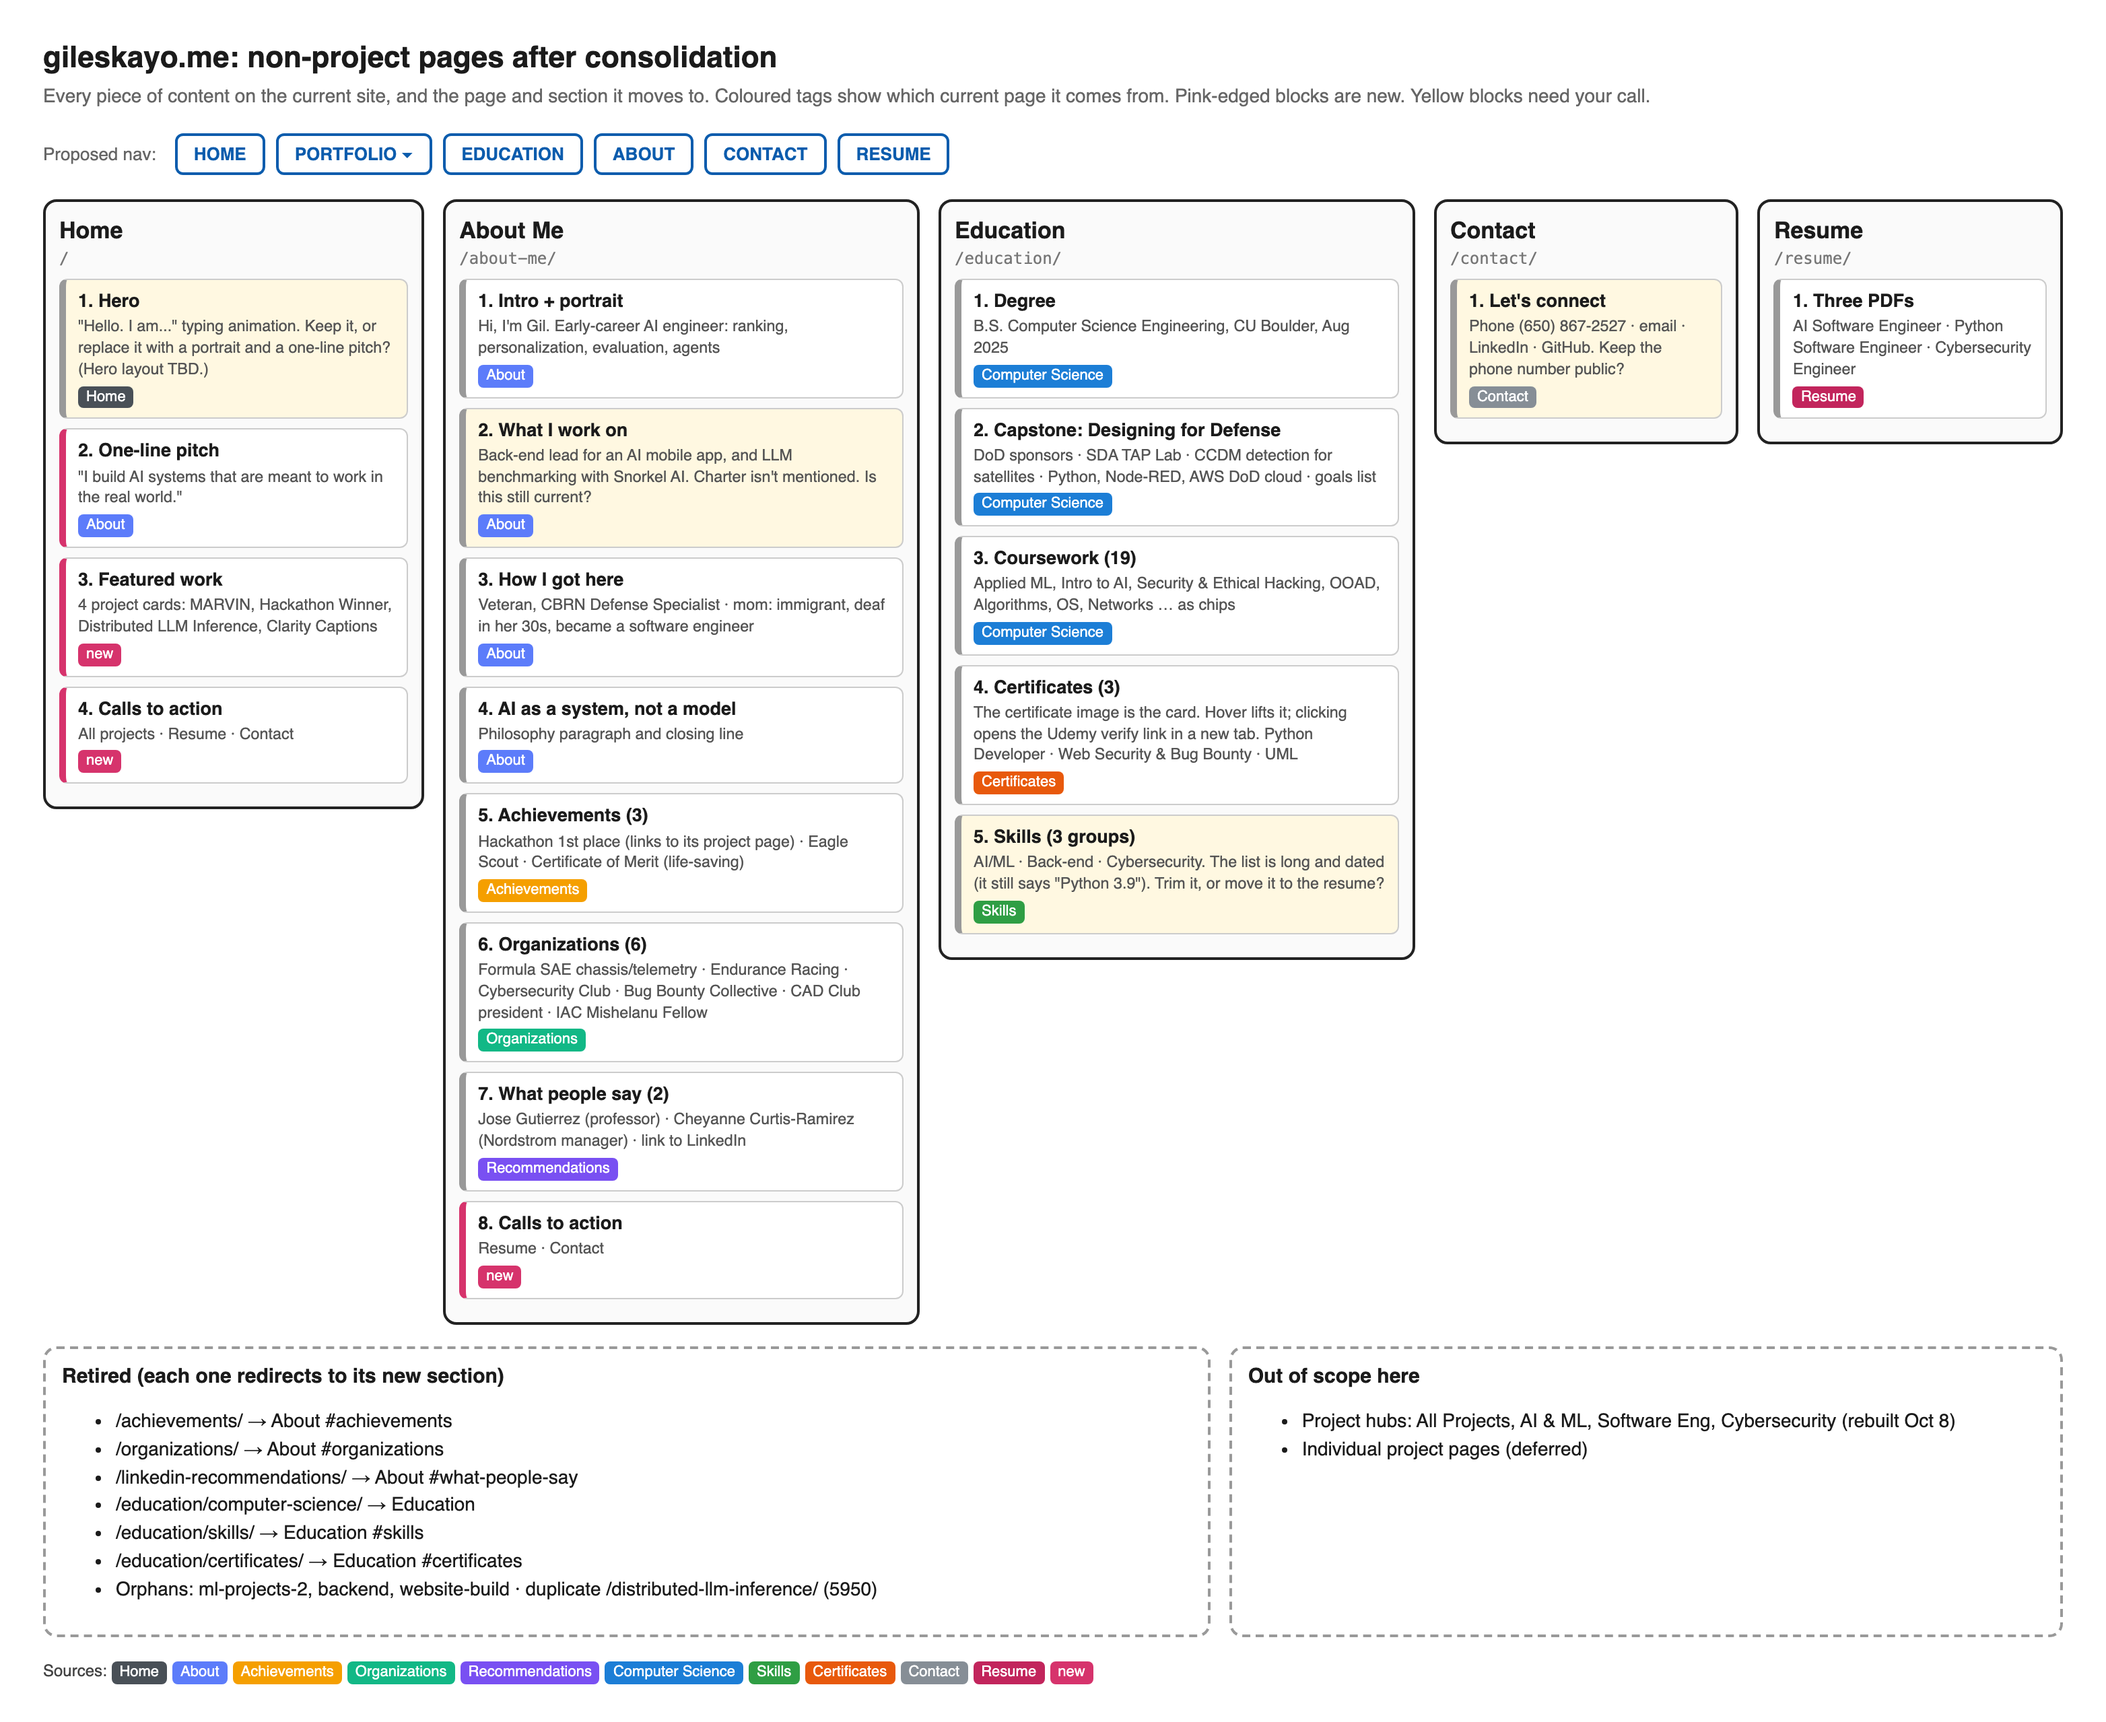
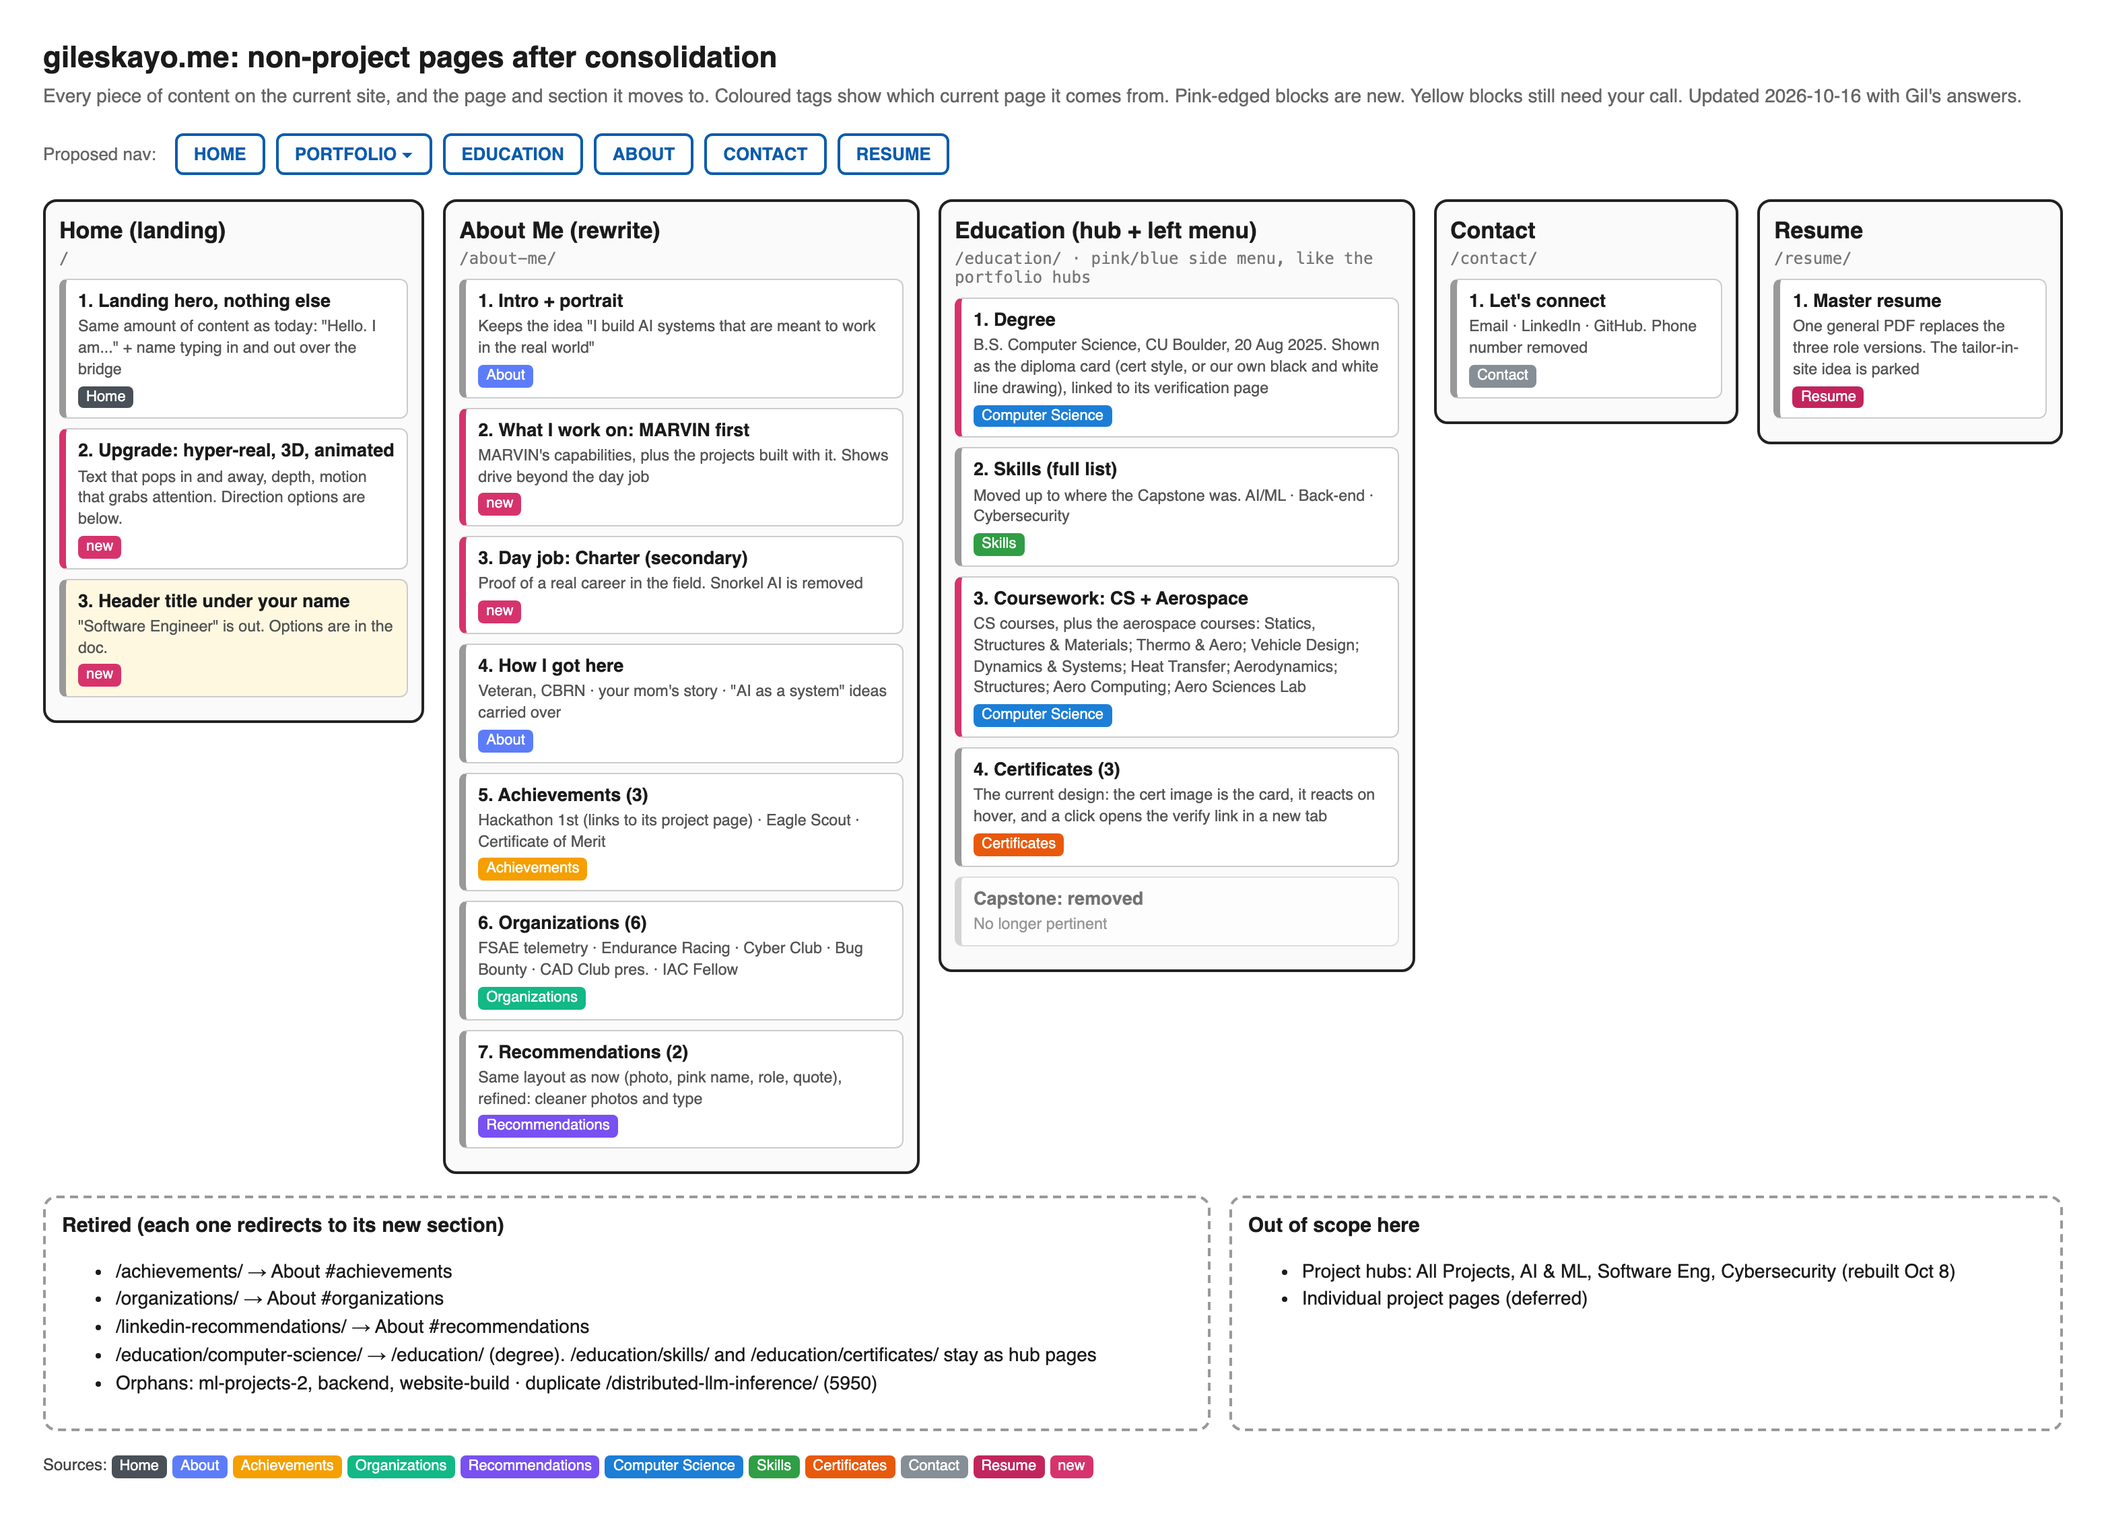
Portfolio site map: record Gil's answers, aerospace coursework, open decisions
Claude-Session: https://claude.ai/code/session_01PL5y2QzC7hPVTniVSBjpPS

Changed region(s): [[0.0, 0.0311, 0.7753, 0.9947], [0.6822, 0.1243, 0.9613, 0.2798], [0.5892, 0.7771, 0.9303, 0.8703]]

diff --git a/docs/plans/portfolio-site-map-2026-10-16.md b/docs/plans/portfolio-site-map-2026-10-16.md
@@ -19,7 +19,7 @@ Everything below comes from the dev site (localhost:8080) as of today.
 |---|---|
 | "Hi, I'm Gil!" plus the pitch "I build AI systems that are meant to work in the real world." | About §1, with the pitch also on Home §2 |
 | Early-career AI engineer: ranking, personalization, evaluation, agentic behavior | About §1 |
-| Back-end lead for an AI-driven mobile app; LLM benchmarking with Snorkel AI | About §2 (decision below: is this current? Charter isn't mentioned) |
+| Back-end lead for an AI-driven mobile app; LLM benchmarking with Snorkel AI | **Replaced.** About §2 becomes MARVIN and the projects built with it; Charter becomes a secondary line. Snorkel AI is removed everywhere (only on /about-me/ today) |
 | Veteran, CBRN Defense Specialist | About §3 |
 | Mother: immigrant, single parent, lost her hearing in her 30s, built a software career without a degree | About §3 |
 | "AI as a system, not just a model" paragraph and closing line | About §4 |
@@ -50,9 +50,9 @@ Everything below comes from the dev site (localhost:8080) as of today.
 ### Computer Science (`/education/computer-science/`), being retired
 | Content | Goes to |
 |---|---|
-| B.S. Computer Science Engineering, CU Boulder, graduated Aug 2025 | Education §1 |
+| B.S. Computer Science Engineering, CU Boulder, graduated Aug 2025 | Education §1 as a diploma card. Fix the title: the diploma says **Bachelor of Science in Computer Science**, conferred 20 August 2025 |
 | 19 courses (includes Designing for Defense, Intelligent Leadership, Writing in Arts & Sciences) | Education §3; fix the "Anlysis" typo |
-| Capstone: Designing for Defense: DoD sponsors, SDA TAP Lab, CCDM detection, the goals, Python / Node-RED / AWS DoD cloud | Education §2 |
+| Capstone: Designing for Defense: DoD sponsors, SDA TAP Lab, CCDM detection, the goals, Python / Node-RED / AWS DoD cloud | **Removed** (Gil: no longer pertinent). The course name stays in Coursework |
 
 ### Certificates (`/education/certificates/`), being retired
 | Certificate | Completed | Length | Image | Verify link |
@@ -61,8 +61,19 @@ Everything below comes from the dev site (localhost:8080) as of today.
 | Web Security and Bug Bounty (Udemy) | 2024-03-12 | 10.5 h | `/wp-content/uploads/2024/03/Web-Security-certificate.jpg` | https://www.udemy.com/certificate/UC-4293b115-5d24-405b-9e82-5d196915adc6/ |
 | UML Class Diagrams for Programmers (Udemy) | 2025-09-06 | 1.5 h | `/wp-content/uploads/2025/10/UML-Certificate.jpg` | https://www.udemy.com/certificate/UC-74c5e0ce-5892-455d-bfbc-d6b888426e00/ |
 
-All three go to Education §4. Gil's spec: the certificate image is the card, it reacts on hover, and a click opens the verify link in a new tab.
+All three go to Education §4, the last section, keeping today's design. Gil's spec: the certificate image is the card, it reacts on hover, and a click opens the verify link in a new tab.
 Fix the "Lenght" typo while moving them.
+
+### Aerospace coursework (new), from the CU Boulder course history in Dropbox
+Course names only. Grades and the student ID never go on the site.
+| Course | Goes to |
+|---|---|
+| Aerospace Computing · Statics and Structures · Dynamics (transfer credit) | Education, Coursework (Aerospace) |
+| Statics, Structures & Materials · Thermodynamics & Aerodynamics · Experimental/Computational Methods in Aerospace | Education, Coursework (Aerospace) |
+| Dynamics & Systems · Vehicle Design & Performance · Thermodynamics & Heat Transfer | Education, Coursework (Aerospace) |
+| Structures · Aerodynamics · Aerospace Sciences Lab II | Education, Coursework (Aerospace) |
+
+Left out: Aircraft Dynamics, which was never completed. The ROTC leadership courses (Methods of Leadership & Management 1–2, Military Operations & Training 1–2) could support the veteran story on About (decision below).
 
 ### Skills (`/education/skills/`), being retired
 | Content | Goes to |
@@ -74,43 +85,62 @@ Fix the "Lenght" typo while moving them.
 ### Contact (`/contact/`)
 | Content | Goes to |
 |---|---|
-| Phone (000) 000-0000, geskayo@gmail.com, LinkedIn, GitHub | Contact (decision below on the phone number) |
+| Phone, email, LinkedIn, GitHub | Contact: email, LinkedIn and GitHub only. **Phone removed** |
 
 ### Resume (`/resume/`)
 | Content | Goes to |
 |---|---|
-| Three PDFs: AI Software Engineer, Python Software Engineer, Cybersecurity Engineer | Resume, unchanged |
+| Three PDFs: AI Software Engineer, Python Software Engineer, Cybersecurity Engineer | Replaced by **one master resume** PDF. Building the resume tailor into the site stays parked |
 
 ### Not in this pass
 - Project hubs (All Projects, AI & ML, Software Engineering, Cybersecurity) were rebuilt on 2026-10-08.
 - Project pages are deferred.
 - Orphans ml-projects-2, backend and website-build, plus the duplicate `/distributed-llm-inference/` (page 5950), get removed.
 
+## Gil's answers (2026-10-16)
+- **Home** is a landing page that brings people in. No more information than today. Keep the text that pops in and out, but make it hyper-realistic, 3D and attention-grabbing.
+- **About** gets rewritten. "What I work on" leads with MARVIN, its capabilities and the projects built with it, to show drive beyond the job. Charter is a secondary line that proves a real career in the field. Keep ideas from the current page.
+- **Snorkel AI** comes off the site wherever it appears.
+- **Nourished**, if it's mentioned anywhere, is "in development": it isn't on the App Store yet. It isn't on the site today.
+- **Recommendations** keep today's layout (photo, pink name, role, quote), refined with cleaner photos and type.
+- **Education** becomes a hub with a pink and blue left side menu, like the portfolio hubs. Order: Degree (shown like the certs, or as our own black and white line drawing, continuing the cert design up to it), Skills in full (where the Capstone was), Coursework (CS plus aerospace, which backs up the skills), Certificates (today's design). The Capstone is removed.
+- **Contact:** email, LinkedIn and GitHub. No phone.
+- **Resume:** just the master resume.
+
+## Degree: verifiable like the certs
+The diploma (`Dropbox/Gil/Gil's resume/archive/2025/CollegeDiploma.pdf`) is a certified e-diploma with code **25Z8-DPSX-G40X** printed on it. Its verification page can be the click-through target, the same way the certs work. The exact verify URL still needs confirming.
+
 ## Order of work
-1. **Education first.** Most of its content is already settled, and Education A was the one mockup Gil partly liked. Certificate cards to his spec.
-2. About Me, then Gil approves the copy.
-3. Home.
-4. Contact, Resume, then the nav and redirects.
+1. **Education first**, with the hub, the diploma card and the certificate cards.
+2. Home landing: prototype the 3D directions on the dev site and pick one.
+3. About rewrite. Gil approves the copy.
+4. Contact, Resume, then the nav, the header title and the redirects.
 
 ## Decisions
 <!-- marvin:decisions -->
-### hero: Home hero
-- [ ] Keep the "Hello. I am..." typing animation
-- [ ] Replace it with a portrait and the one-line pitch
-- [ ] Decide when we reach Home
+### title: Header title under your name (replaces "Software Engineer")
+- [ ] AI Systems Engineer
+- [ ] Autonomous Systems Engineer (ties together AI agents and aerospace)
+- [ ] Applied AI & Security Engineer
+- [ ] AI Engineer · Security · Research
+- [ ] Something else (text below)
 
-### work: About §2 "What I work on"
-- [ ] Rewrite it around Charter (current job)
-- [ ] Keep the mobile app and Snorkel AI work, and add Charter
-- [ ] I'll tell you what's current (text below)
+### title-text: Your own title idea (text) (optional)
 
-### work-text: What's current at work? (text) (optional)
+### hero: Landing direction to prototype first (pick any)
+- [ ] 3D MARVIN brain: a rotating node graph with depth; your name assembles from it and dissolves into the next line
+- [ ] Living bridge: the bridge photo turned into a 3D parallax scene with moving fog and light; the text floats in 3D in front of it
+- [ ] Particle type: each line forms out of thousands of glowing particles that react to the cursor, then scatters into the next line
 
-### skills: Where the Skills list lives
-- [ ] Education, trimmed to what's still true
-- [ ] Education, kept in full
-- [ ] Drop it from the site (the resume covers it)
+### degree: How the degree shows
+- [ ] The diploma image as a card, same as the certs
+- [ ] Our own black and white line-drawn version
+- [ ] Prototype both and I'll pick
 
-### phone: Phone number on Contact
-- [ ] Keep it public
-- [ ] Remove it (email, LinkedIn and GitHub only)
+### edu-layout: Education structure
+- [ ] Hub: a separate page per section, with the left menu (like Portfolio)
+- [ ] One page; the left menu jumps to each section
+
+### rotc: Mention the ROTC leadership courses on About? (optional)
+- [ ] Yes, in "How I got here"
+- [ ] No
